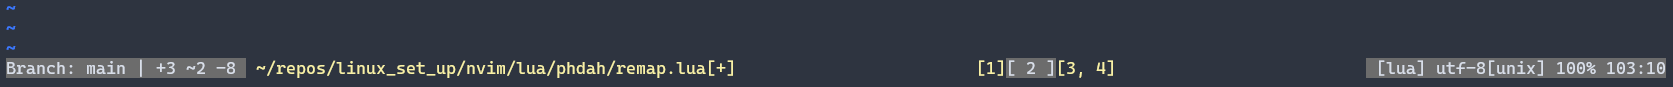
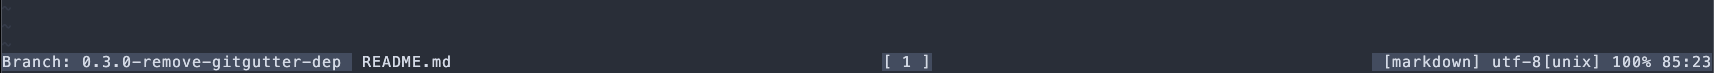
Remove git diffs from status line (#3)
Remove all dependencies of `gitgutter`, by not showing git diffs.

Also cleanup and adding new demo image.

diff --git a/README.md b/README.md
@@ -23,8 +23,10 @@ nvim-statusline statusline
 ## Requirements
 
 - Neovim 0.X
-- TODO: 'airblade/vim-gitgutter'
-- Require `set termguicolors`
+- `git`
+
+If you want to set your own colors, you also need
+- `set termguicolors` in your config
 
 ## Installation
 
